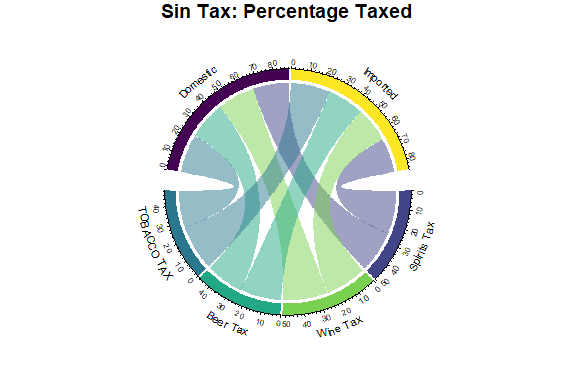
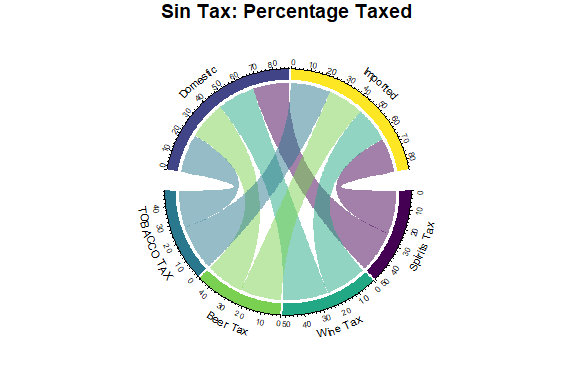
read me changes

Changed region(s): [[0.2812, 0.1562, 0.7188, 0.8438]]

diff --git a/taxes.md b/taxes.md
@@ -1,0 +1,10 @@
+Easter/Tax Data
+================
+Kit Applegate
+2022-04-17
+
+In celebration of Easter and Tomorrows “Tax day”, this is a tongue in
+cheek Plot for “Sin” tax distibutions. Done in pastel colors. Hope you
+enjoyed it and Happy Easter and Tax Day;)
+
+![](plot.png)
